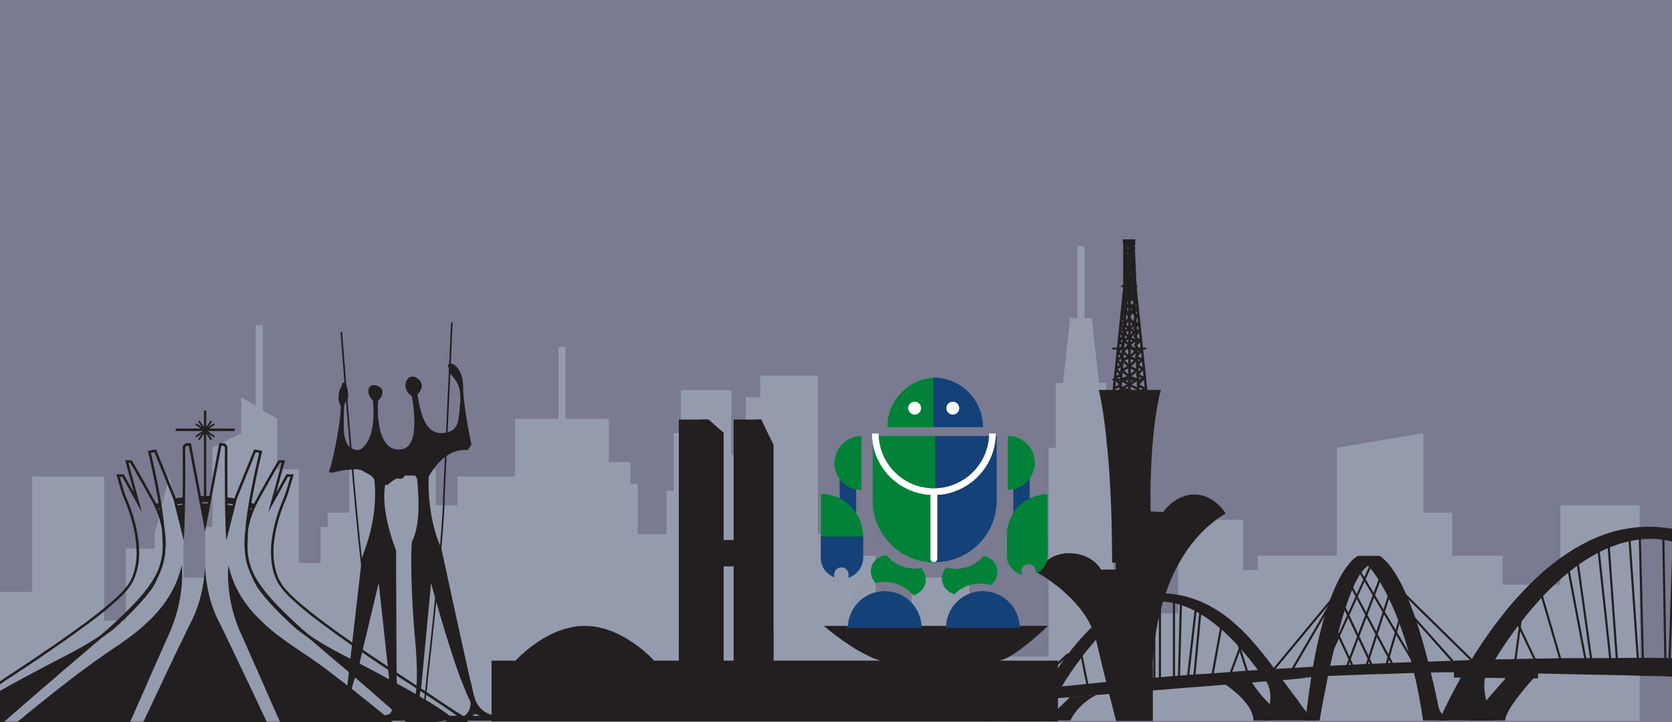
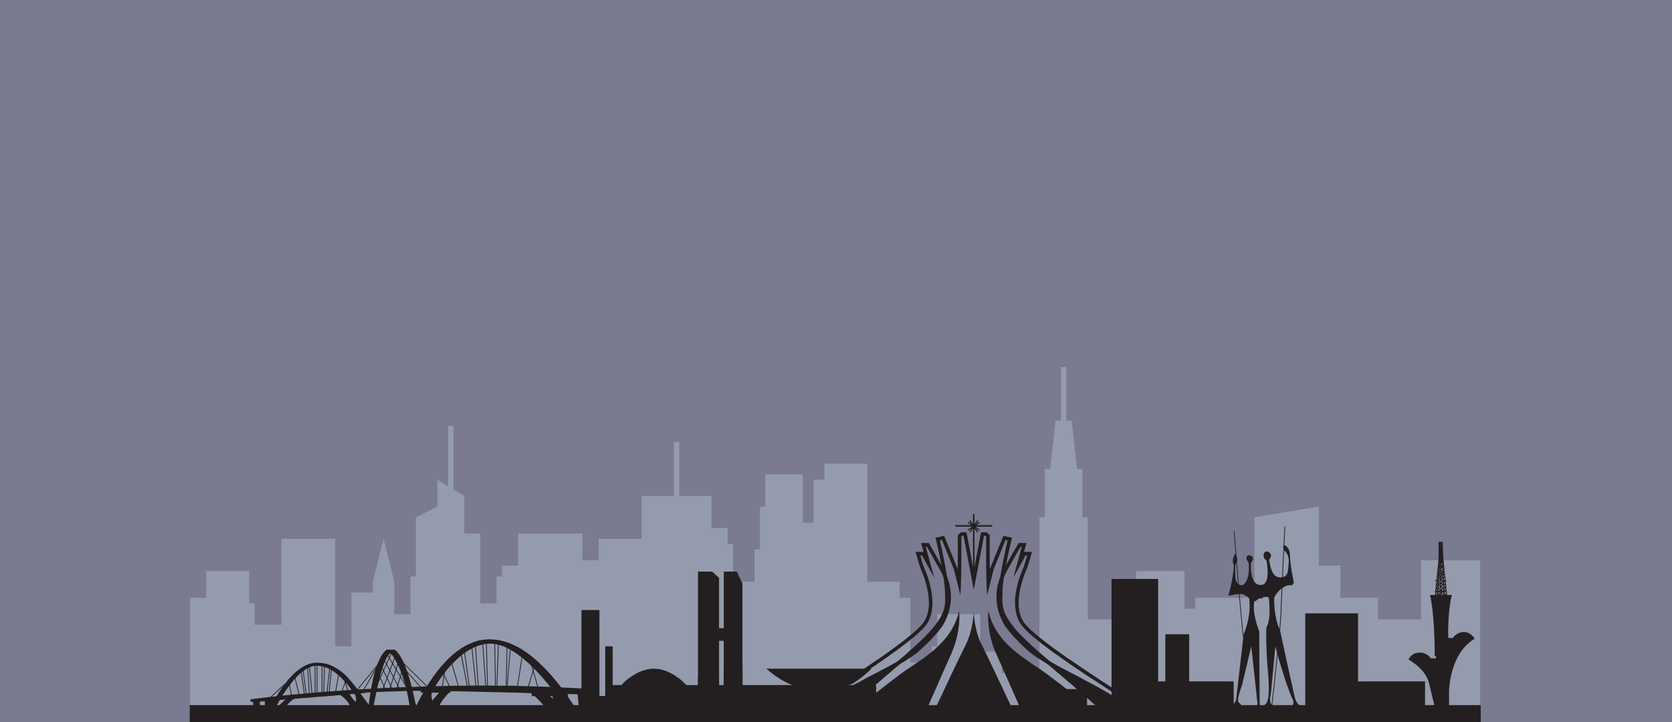
Fix: Pag inicial

Changed region(s): [[0.0, 0.3361, 1.0, 1.0]]

diff --git a/index.html b/index.html
@@ -40,18 +40,28 @@
     <section id="index" class="bg-[url('assets/skyline.png')] bg-[#738186] bg-no-repeat bg-bottom min-h-screen flex items-start pt-20">
         <div class="absolute inset-0 bg-blue-100/20"></div>
       
-        <div class="relative mx-auto items-center justify-center text-center grid flex-col-3 py-16">
+        <div class="relative z-10 container mx-auto md:px-20 py-16 grid md:grid-cols-2 items-center justify-center text-center md:text-left gap-8">
           <!-- Texto -->
           <div class="md:pr-10">
-            <h1 class="text-5xl md:text-6xl xl:text-6xl font-bold leading-tight">
-              <a style="color: #001BB7;">Fourth Summer School on <br> Robotic Mission Engineering </a><br>
-            </h1>
+            <h1 class="text-6xl font-bold leading-tight">
+                <a style="color: #001BB7;">RoME 2026 </a><br>
+              </h1>
+            <h2 class="text-4xl font-bold leading-tight">
+              <a style="color: #001BB7;">Fourth Summer School on Robotic Mission Engineering </a><br>
+            </h2>
             <h2 class="mt-6">
-              <a class="text-2xl md:text-3xl font-bold">February 23 - 27 / 2026 • Brasilia/DF </a>
+              <a class="text-2xl font-bold">February 23 - 27 / 2026 • Brasilia/DF </a>
             </h2>
             <a href="https://www.even3.com.br/fourth-summer-school-on-robotic-mission-engineering-rome-2026-624910/" class="mt-10 inline-block bg-[#1C6EA4] hover:bg-[#001BB7] text-white px-8 py-4 rounded-xl font-semibold text-lg transition">
               Registration open!
             </a>
+          </div>
+
+          <!-- Imagem -->
+          <div class="flex justify-center">
+            <img src="assets/robo.png"
+              alt="Robô"
+              class=" max-w-md transition-transform duration-500 hover:scale-110">
           </div>
         </div>
       </section>
@@ -59,30 +69,17 @@
       
     <!------------------------------------------ About ---------------------------------------------------------------------------------->
 
-    <section id="sobre" class="relative bg-cover bg-center mt-8 md:px-20">
-        <div class="container mx-auto grid md:grid-cols-2 items-center gap-8 px-6 py-12">
-            <div class="md:pr-10"><br>
-                <p class="text-2xl font-bold mt-2">About the event</p>
-                <h2 style="color: #001BB7;"  class="text-4xl md:text-5xl font-semibold text-[#673FBC]">
-                    <strong>What is RoME?</strong>
-                </h2>
-                <br>
-                <p class="text-lg mt-2 text-justify">
-                    The International Summer School on Robotic Mission Engineering (RoME) aims to promote the engineering of missions of robotic applications through systematic approaches of Software Engineering. 
-                    This year, RoME is funded by ACM Sigsoft. In its fourth edition, we will have five days event full of presentations, working sessions, lots of discussions and opportunities to engage on very interesting research topics.
-                    The expected outcomes of this summer school are to:<br>                    
-                    (i) promote the dissemination of scientific research and its practical application regarding the engineering of autonomous robotic missions through systematic approaches to Software Engineering; <br>
-                    (ii) promote technological innovation with the research community in robotic and in Software Engineering. <br>
-                    (iii) attract students to contribute to the development of the proposed research and <br>                    
-                    (iv) foster research collaboration between international academic centers of excellence!
-                </p>
-
-            </div> 
-
-            <div class="flex justify-center items-center mt-24">     
-                <img src="assets/about.png" alt="Robô" 
-                class="transition-transform duration-500 hover:scale-110">
-            </div>
+    <section id="sobre" class="relative bg-cover bg-center mt-24 md:px-20 ">
+        <div class="container mx-auto grid md:grid-cols-1 items-center gap-2 ">            
+            <p class="text-2xl font-bold mt-2">About the event</p>
+            <h2 style="color: #001BB7;"  class="text-4xl md:text-5xl font-semibold text-[#673FBC]">
+                <strong>What is RoME?</strong>
+            </h2>
+            <p class="text-lg text-justify mt-6">
+                The International Summer School on Robotic Mission Engineering (RoME) is dedicated to advancing the engineering of robotic missions through systematic approaches drawn from Software Engineering. In 2025, RoME proudly celebrates its fourth edition with the support of ACM SIGSOFT.<br>
+                Over the course of five days, participants will take part in a dynamic program of presentations, interactive working sessions, and engaging discussions with internationally renowned speakers, who have been a hallmark of RoME since its first edition. This year introduces an exciting new highlight: the very first RoME Robotic Competition, where participants will collaborate to design and execute missions in Turtebots.<br>
+                RoME 2025 promises an inspiring environment to learn, collaborate, and innovate at the forefront of robotics research.              
+            </p>        
         </div>
     </section>
 
@@ -111,6 +108,51 @@
                     <p class="text-black mt-2 text-justify">Ana Cavalcanti is a Professor at the University of York, UK, and holds a Royal Academy of Engineering Chair in Emerging Technologies. In that role, she is Director of the RoboStar centre on Software Engineering for Robotics. She previously held a Royal Society Industry Fellowship, which provided her with the ideal opportunity to understand and contribute to the practice of formal methods working with QinetiQ. Her main scientific achievements have been on the design and justification of sound refinement-based program development and verification techniques. She has covered theoretical and practical integration with industry-strength technology: concurrency, object-orientation, and testing, dealing now with mobile and autonomous robots. She has led the development and justification of refinement theories, notations, and techniques, and tools to cope with control systems. Her work provides support for graphical notations popular with engineers, and for main-stream programming languages. It is distinctive in that it has comprehensive coverage of practical languages, rather than idealised notations. It also supports high degrees of automation to enable usability and scalability. She has chaired the Programme Committee of leading conferences, and been a member of numerous Programme Committees. Currently, she is the Chair of the Formal Methods Europe Board. </p>
                 </div>
 
+                <div style="color: #001BB7;" class ="bg-[#BED7DC] rounded-xl shadow-md hover:shadow-xl hover:scale-105 transform transition duration-300 p-6 w-full text-center align-items-center mx-auto">
+                    <img
+                    src="assets/keynote/roli.png"
+                    alt="Keynote 1"
+                    class="w-28 h-28 rounded-full mx-auto mb-4 object-cover"
+                    />
+                    <h2 class="text-lg font-bold leading-tight">
+                        Paulo Maia
+                    </h2>
+                    <h3 style="color: #001BB7;" class="text-lg font-bold leading-tight">
+                        Federal University of Rio Grande Do Norte, Brazil 🇧🇷
+                    </h3>
+                    <p class="text-black mt-2 text-justify">Paulo Rolim is currently a PhD student in the Postgraduate Program in Systems and Computing at the Federal University of Rio Grande do Norte, Brazil. He is a member of the RoboStar team and holds a degree in Law from the Potiguar University (2011), a technical-professional course in the Digital Metropolis Technical Course - IMD from the Federal University of Rio Grande do Norte (2019) and a Master's degree in Systems and Computing from the Federal University of Rio Grande do Norte (2023). He has experience in the area of Computer Science, working mainly on the following topics: formal methods, safety-critical systems and railway interlocking systems.</p>
+                </div>
+
+                <div class ="bg-[#BED7DC] rounded-xl shadow-md hover:shadow-xl hover:scale-105 transform transition duration-300 p-6 w-full text-center align-items-center mx-auto">
+                    <img
+                    src="assets/keynote/lina.png"
+                    alt="Keynote 1"
+                    class="w-28 h-28 rounded-full mx-auto mb-4 object-cover"
+                    />
+                    <h2 style="color: #001BB7;" class="text-lg font-bold leading-tight">
+                        Lina Marsso
+                    </h2>
+                    <h3 style="color: #001BB7;" class="text-lg font-bold leading-tight">
+                        Polytechinique Montréal, Canada 🇨🇦
+                    </h3>
+                    <p class="text-black mt-2 text-justify">Lina Marsso is currently a post-doctoral researcher in the Department of Computer Science at the University of Toronto working with Marsha Chechik. She received her PhD from INRIA Grenoble, France where she was advised by Radu Mateescu and Ioaniss Parissis. Her recent work is in the combination of safety, social, legal, ethical, empathetic, and cultural, verification and analysis of autonomous systems. Lina was organizer and served as PC Chair on the first International Workshop on Dependability and Trustworthiness of Safety-Critical Systems with Machine Learned Components and the sixth International Workshop on Automated and Verifiable Software System Development. Moreover, she served and is serving on the program committee of several conferences, including the 46th International Conference on Software Engineering (ICSE 2024), the 39th IEEE/ACM International Conference on Automated Software Engineering (ASE 2024), the 29th International Conference on Formal Methods for Industrial Critical Systems (FMICS 2024), and the 26th International Conference on Fundamental Approaches to Software Engineering (FASE'2023). </p>
+                </div>
+
+                <div style="color: #001BB7;" class ="bg-[#BED7DC] rounded-xl shadow-md hover:shadow-xl hover:scale-105 transform transition duration-300 p-6 w-full text-center align-items-center mx-auto">
+                    <img
+                    src="assets/keynote/patrizio.jpg"
+                    alt="Keynote 1"
+                    class="w-28 h-28 rounded-full mx-auto mb-4 object-cover"
+                    />
+                    <h2 class="text-lg font-bold leading-tight">
+                        Patrizio Pelliccione
+                    </h2>
+                    <h3 style="color: #001BB7;" class="text-lg font-bold leading-tight">
+                        Gran Sasso Science Institute, Italy 🇮🇹
+                    </h3>
+                    <p class="text-black mt-2 text-justify">Patrizio Pelliccione has an academic and educational background in Software Engineering and Computer Science covering both solution-oriented and knowledge-oriented research. He has been working in different countries and contexts and he has a consolidated experience on National (Italian, Swedish, Luxembourgish) and EU projects. He is very active in the research community and he collaborate with various companies around the world. The three main research areas in which he is working are (i) autonomous, self-adaptive, and smart systems, (ii) robotic Software engineering and (iii) architecting complex system.</p>
+                </div>
+
                 <div class ="bg-[#BED7DC] rounded-xl shadow-md hover:shadow-xl hover:scale-105 transform transition duration-300 p-6 w-full text-center align-items-center mx-auto">
                     <img
                     src="assets/keynote/Genaina.png"
@@ -126,50 +168,6 @@
                     <p class="text-black mt-2 text-justify">Genaina Rodrigues is an associate professor in the Department of Computer Science at the University of Brasília. She received her Ph.D. in Computer Science from University College London in 2008. Previously, she obtained her bachelor’s degree in Computer Science from the University of Brasília in 1999 and her Master’s Degree in Computer Science from the Federal University of Pernambuco in 2002. In 2008, she conducted a postdoctoral research in the Computer Science Department at the Federal University of Minas Gerais. Her research interests are mostly in Software Systems Engineering including the mutual collaboration between robotics and software engineering, model checking for design and runtime verification, self-adaptive systems and the interplay with goal-oriented requirements engineering, behavior-driven development and its role in testing. In 2013, she co-organized the Brazilian Software Engineering Congress (CBSoft) of the Brazilian Computer Society (SBC). In 2020, she was awarded a fellowship as an experienced researcher through CAPES/Alexander von Humboldt Programme to conduct research at the Humboldt Universität zu Berlin with Prof. Lars Grunske and PhD Thomas Vogel. </p>
                 </div>
 
-                <div class ="bg-[#BED7DC] rounded-xl shadow-md hover:shadow-xl hover:scale-105 transform transition duration-300 p-6 w-full text-center align-items-center mx-auto">
-                    <img
-                    src="assets/keynote/lina.png"
-                    alt="Keynote 1"
-                    class="w-28 h-28 rounded-full mx-auto mb-4 object-cover"
-                    />
-                    <h2 style="color: #001BB7;" class="text-lg font-bold leading-tight">
-                        Lina Marsso
-                    </h2>
-                    <h3 style="color: #001BB7;" class="text-lg font-bold leading-tight">
-                        University of Toronto, Canada 🇨🇦
-                    </h3>
-                    <p class="text-black mt-2 text-justify">Lina Marsso is currently a post-doctoral researcher in the Department of Computer Science at the University of Toronto working with Marsha Chechik. She received her PhD from INRIA Grenoble, France where she was advised by Radu Mateescu and Ioaniss Parissis. Her recent work is in the combination of safety, social, legal, ethical, empathetic, and cultural, verification and analysis of autonomous systems. Lina was organizer and served as PC Chair on the first International Workshop on Dependability and Trustworthiness of Safety-Critical Systems with Machine Learned Components and the sixth International Workshop on Automated and Verifiable Software System Development. Moreover, she served and is serving on the program committee of several conferences, including the 46th International Conference on Software Engineering (ICSE 2024), the 39th IEEE/ACM International Conference on Automated Software Engineering (ASE 2024), the 29th International Conference on Formal Methods for Industrial Critical Systems (FMICS 2024), and the 26th International Conference on Fundamental Approaches to Software Engineering (FASE'2023). </p>
-                </div>
-
-                <div style="color: #001BB7;" class ="bg-[#BED7DC] rounded-xl shadow-md hover:shadow-xl hover:scale-105 transform transition duration-300 p-6 w-full text-center align-items-center mx-auto">
-                    <img
-                    src="assets/keynote/patrizio.jpg"
-                    alt="Keynote 1"
-                    class="w-28 h-28 rounded-full mx-auto mb-4 object-cover"
-                    />
-                    <h2 class="text-lg font-bold leading-tight">
-                        Patrizio Pelliccione
-                    </h2>
-                    <h3 style="color: #001BB7;" class="text-lg font-bold leading-tight">
-                        University of Bergen, Norway 🇳🇴
-                    </h3>
-                    <p class="text-black mt-2 text-justify">Patrizio Pelliccione has an academic and educational background in Software Engineering and Computer Science covering both solution-oriented and knowledge-oriented research. He has been working in different countries and contexts and he has a consolidated experience on National (Italian, Swedish, Luxembourgish) and EU projects. He is very active in the research community and he collaborate with various companies around the world. The three main research areas in which he is working are (i) autonomous, self-adaptive, and smart systems, (ii) robotic Software engineering and (iii) architecting complex system.</p>
-                </div>
-
-                <div style="color: #001BB7;" class ="bg-[#BED7DC] rounded-xl shadow-md hover:shadow-xl hover:scale-105 transform transition duration-300 p-6 w-full text-center align-items-center mx-auto">
-                    <img
-                    src="assets/keynote/roli.png"
-                    alt="Keynote 1"
-                    class="w-28 h-28 rounded-full mx-auto mb-4 object-cover"
-                    />
-                    <h2 class="text-lg font-bold leading-tight">
-                        Paulo Maia
-                    </h2>
-                    <h3 style="color: #001BB7;" class="text-lg font-bold leading-tight">
-                        Federal University of Rio Grande Do Norte, Brazil 🇧🇷
-                    </h3>
-                    <p class="text-black mt-2 text-justify">Paulo Rolim is currently a PhD student in the Postgraduate Program in Systems and Computing at the Federal University of Rio Grande do Norte, Brazil. He is a member of the RoboStar team and holds a degree in Law from the Potiguar University (2011), a technical-professional course in the Digital Metropolis Technical Course - IMD from the Federal University of Rio Grande do Norte (2019) and a Master's degree in Systems and Computing from the Federal University of Rio Grande do Norte (2023). He has experience in the area of Computer Science, working mainly on the following topics: formal methods, safety-critical systems and railway interlocking systems.</p>
-                </div>
             </div>
     </section>
 
@@ -202,9 +200,11 @@
                 <br>
                 <p class="text-lg mt-2 text-justify">
                     RoME will sponsor via ACM Sigsoft up to 10 students grants of BRL 2,500 to support travel and registration costs for students coming outside Brasilia.<br>
-                    If you want to apply for a student grant, you should fill <a href="" class="text-blue-900">[this form]</a> provided with your proof of registration.<br>
-                    Student membership for ACM Sigsoft or SBC (Brazilian Computer Society) is desirable. 
+                    If you want to apply for a student grant, check the informations bellow. <br>
                 </p>
+                <a href="registration.html#student" class="mt-10 inline-block bg-[#1C6EA4] hover:bg-[#001BB7] text-white px-8 py-4 rounded-xl font-semibold text-lg transition">
+                    More informations!
+                </a>
             </div> 
         </div>
     </section>
@@ -335,6 +335,7 @@
         
             <!-- Coluna 2: Redes Sociais -->
             <div class="flex flex-col items-center">
+                <h1 class="text-xl font-semibold mb-4">RoME 2026</h1>
                 <h2 class="text-xl font-semibold mb-4">Fourth Summer School on Robotic Mission Engineering</h2>
                 <h3 class="text-xl font-semibold mb-4">February 23 - 27 / 2026  • Brasilia/DF </h3>
             </div>

diff --git a/registration.html b/registration.html
@@ -25,7 +25,7 @@
         <ul class="hidden md:flex flex-col md:flex-row gap-4 text-white text-lg font-medium menu-list">
             <li><a href="index.html" class="hover:text-blue-900 transition font-bold">Home</a></li>  
             <li><a href="index.html#keynote" class="hover:text-blue-900 transition font-bold">Keynote Speaker</a></li>  
-            <li><a href="program.html" class="hover:text-blue-900 transition font-bold">Schedule</a></li>
+            <li><a href="program.html" class="hover:text-blue-900 transition font-bold">Program</a></li>
             <li><a href="registration.html" class="hover:text-blue-900 transition font-bold">Registration</a></li>  <!--EDITAR HREF-->            
             <!-- <li><a href="accommodation.html" class="hover:text-blue-900 transition font-bold">Accommodation</a></li>             -->
             <li><a href="steering.html" class="hover:text-blue-900 transition font-bold">Steering</a></li>  
@@ -84,7 +84,7 @@
                 </div>    
 
                 <ul class="list-disc ml-6 space-y-1 text-black text-lg">
-                    <li>* Students from the following Universities have 25% discount in the registration fee: Universidad de Buenos Aires (UBA) use "STUDENTUBA", Universidade Estadual do Ceará (UECE) use "STUDENTUECE" and Universidade de Brasília (UNB) use "STUDENTUNB".</li>
+                    <li>* Students from the following Universities have 25% discount in the registration fee: Universidade Estadual do Ceará (UECE) use "STUDENTUECE" and Universidade de Brasília (UNB) use "STUDENTUNB".</li>
                     <li>** Needy students (alunos carentes) are not charged registration fee use "NEEDYSTUDENT". However, they must also register to the event in the provided link above. A declaration from the University must be uploaded in the registration system.</li>
                     <li>*** For all students: you must upload in the registration system an official document from the University that you are currently a regular student or an official transcript file/school records.</li>
                 </ul>
@@ -97,7 +97,7 @@
             <hr class="border-t border-blue-900">
               <ul class="list-disc ml-6 space-y-1 text-black text-xl">
                 <li>Access to the event</li>
-                <li>A participant kit with bag, water squeeze and T-shirt *</li>
+                <!-- <li>A participant kit with bag, water squeeze and T-shirt *</li> -->
                 <li>Coffee break</li>
                 <li>Certificate</li>
               </ul>
@@ -130,6 +130,7 @@
         
             <!-- Coluna 2: Redes Sociais -->
             <div class="flex flex-col items-center">
+                <h1 class="text-xl font-semibold mb-4">RoME 2026</h1>
                 <h2 class="text-xl font-semibold mb-4">Fourth Summer School on Robotic Mission Engineering</h2>
                 <h3 class="text-xl font-semibold mb-4">February 23 - 27 / 2026  • Brasilia/DF </h3>
             </div>

diff --git a/program.html b/program.html
@@ -23,7 +23,7 @@
     <ul class="hidden md:flex flex-col md:flex-row gap-4 text-white text-lg font-medium menu-list">
         <li><a href="index.html" class="hover:text-blue-900 transition font-bold">Home</a></li>  
         <li><a href="index.html#keynote" class="hover:text-blue-900 transition font-bold">Keynote Speaker</a></li>  
-        <li><a href="program.html" class="hover:text-blue-900 transition font-bold">Schedule</a></li>
+        <li><a href="program.html" class="hover:text-blue-900 transition font-bold">Program</a></li>
         <li><a href="registration.html" class="hover:text-blue-900 transition font-bold">Registration</a></li>  <!--EDITAR HREF-->            
         <!-- <li><a href="accommodation.html" class="hover:text-blue-900 transition font-bold">Accommodation</a></li>             -->
         <li><a href="steering.html" class="hover:text-blue-900 transition font-bold">Steering</a></li>  
@@ -37,7 +37,7 @@
     <section>
         <div class="flex z-10 container mx-auto px-6 md:px-50 py-10 grid items-center gap-8 ">
             <h1 style="color: #001BB7;" class="text-4xl mt-20 md:text-6xl font-bold leading-tight text-center">
-              Schedule
+              Program
             </h1>
             <hr class="border-t border-blue-900">
         </div>
@@ -51,7 +51,7 @@
               id="tab-program" 
               class="pb-2 px-2 sm:px-0 whitespace-nowrap text-[#000000] hover:text-[#001BB7] transition-colors"
             >
-              Schedule
+            Program
             </button>
             <button 
               onclick="showTab('workingsession')" 
@@ -151,6 +151,7 @@
       
           <!-- Coluna 2: Redes Sociais -->
           <div class="flex flex-col items-center">
+            <h1 class="text-xl font-semibold mb-4">RoME 2026</h1>
               <h2 class="text-xl font-semibold mb-4">Fourth Summer School on Robotic Mission Engineering</h2>
               <h3 class="text-xl font-semibold mb-4">February 23 - 27 / 2026  • Brasilia/DF </h3>
           </div>

diff --git a/anterior.html b/anterior.html
@@ -25,7 +25,7 @@
         <ul class="hidden md:flex flex-col md:flex-row gap-4 text-white text-lg font-medium menu-list">
             <li><a href="index.html" class="hover:text-blue-900 transition font-bold">Home</a></li>  
             <li><a href="index.html#keynote" class="hover:text-blue-900 transition font-bold">Keynote Speaker</a></li>  
-            <li><a href="program.html" class="hover:text-blue-900 transition font-bold">Schedule</a></li>
+            <li><a href="program.html" class="hover:text-blue-900 transition font-bold">Program</a></li>
             <li><a href="registration.html" class="hover:text-blue-900 transition font-bold">Registration</a></li>  <!--EDITAR HREF-->            
             <!-- <li><a href="accommodation.html" class="hover:text-blue-900 transition font-bold">Accommodation</a></li>             -->
             <li><a href="steering.html" class="hover:text-blue-900 transition font-bold">Steering</a></li>  
@@ -108,6 +108,7 @@
         
             <!-- Coluna 2: Redes Sociais -->
             <div class="flex flex-col items-center">
+                <h1 class="text-xl font-semibold mb-4">RoME 2026</h1>
                 <h2 class="text-xl font-semibold mb-4">Fourth Summer School on Robotic Mission Engineering</h2>
                 <h3 class="text-xl font-semibold mb-4">February 23 - 27 / 2026  • Brasilia/DF </h3>
             </div>

diff --git a/steering.html b/steering.html
@@ -25,7 +25,7 @@
         <ul class="hidden md:flex flex-col md:flex-row gap-4 text-white text-lg font-medium menu-list">
             <li><a href="index.html" class="hover:text-blue-900 transition font-bold">Home</a></li>  
             <li><a href="index.html#keynote" class="hover:text-blue-900 transition font-bold">Keynote Speaker</a></li>  
-            <li><a href="program.html" class="hover:text-blue-900 transition font-bold">Schedule</a></li>
+            <li><a href="program.html" class="hover:text-blue-900 transition font-bold">Program</a></li>
             <li><a href="registration.html" class="hover:text-blue-900 transition font-bold">Registration</a></li>  <!--EDITAR HREF-->            
             <!-- <li><a href="accommodation.html" class="hover:text-blue-900 transition font-bold">Accommodation</a></li>             -->
             <li><a href="steering.html" class="hover:text-blue-900 transition font-bold">Steering</a></li>  
@@ -192,6 +192,7 @@
         
             <!-- Coluna 2: Redes Sociais -->
             <div class="flex flex-col items-center">
+                <h1 class="text-xl font-semibold mb-4">RoME 2026</h1>
                 <h2 class="text-xl font-semibold mb-4">Fourth Summer School on Robotic Mission Engineering</h2>
                 <h3 class="text-xl font-semibold mb-4">February 23 - 27 / 2026  • Brasilia/DF </h3>
             </div>

diff --git a/accommodation.html b/accommodation.html
@@ -25,7 +25,7 @@
         <ul class="hidden md:flex flex-col md:flex-row gap-4 text-white text-lg font-medium menu-list">
             <li><a href="index.html" class="hover:text-blue-900 transition font-bold">Home</a></li>  
             <li><a href="index.html#keynote" class="hover:text-blue-900 transition font-bold">Keynote Speaker</a></li>  
-            <li><a href="program.html" class="hover:text-blue-900 transition font-bold">Schedule</a></li>
+            <li><a href="program.html" class="hover:text-blue-900 transition font-bold">Program</a></li>
             <li><a href="registration.html" class="hover:text-blue-900 transition font-bold">Registration</a></li>  <!--EDITAR HREF-->            
             <li><a href="accommodation.html" class="hover:text-blue-900 transition font-bold">Accommodation</a></li>            
             <li><a href="steering.html" class="hover:text-blue-900 transition font-bold">Steering</a></li>  
@@ -82,6 +82,7 @@
         
             <!-- Coluna 2: Redes Sociais -->
             <div class="flex flex-col items-center">
+                <h1 class="text-xl font-semibold mb-4">RoME 2026</h1>
                 <h2 class="text-xl font-semibold mb-4">Fourth Summer School on Robotic Mission Engineering</h2>
                 <h3 class="text-xl font-semibold mb-4">February 23 - 27 / 2026  • Brasilia/DF </h3>
             </div>
